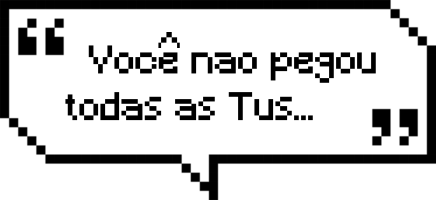
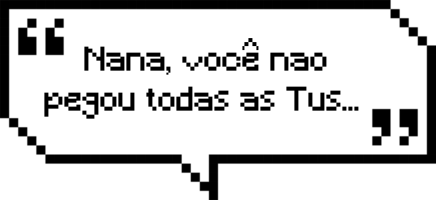
Add win dialog near Olaf

Changed region(s): [[0.0894, 0.42, 0.8349, 0.63], [0.1789, 0.15, 0.8647, 0.42]]

diff --git a/src/game/scenes/Game.js b/src/game/scenes/Game.js
@@ -26,6 +26,7 @@ export class Game extends Scene {
         this.load.image('flag2', 'assets/tiles/flag2.png');
         this.load.image('olaf', 'assets/tiles/Olaf.png');
         this.load.image('dialog', 'assets/tiles/dialog.png');
+        this.load.image('dialog_win', 'assets/tiles/dialog_win.png');
     }
 
     create() {
@@ -204,6 +205,13 @@ export class Game extends Scene {
         this.dialog.setDepth(20);
         this.dialog.y = this.olaf.y - this.olaf.displayHeight - 10;
         this.dialog.setVisible(false);
+
+        this.dialogWin = this.add.image(olafX - 20, olafY, 'dialog_win');
+        this.dialogWin.setOrigin(0.5, 1);
+        this.dialogWin.setScale(0.4);
+        this.dialogWin.setDepth(21);
+        this.dialogWin.y = this.olaf.y - this.olaf.displayHeight - 10;
+        this.dialogWin.setVisible(false);
     }
 
     createFlagAnimation() {
@@ -228,6 +236,12 @@ export class Game extends Scene {
         }
 
         this.isWin = true;
+        if (this.dialog) {
+            this.dialog.setVisible(false);
+        }
+        if (this.dialogWin) {
+            this.dialogWin.setVisible(true);
+        }
         if (this.bgm?.isPlaying) {
             this.bgm.stop();
         }
@@ -343,7 +357,7 @@ export class Game extends Scene {
     }
 
     updateFlagProximity() {
-        if (!this.dialog || !this.player || !this.goalFlag) return;
+        if (this.isWin || !this.dialog || !this.player || !this.goalFlag) return;
         const isAtFlag = this.physics.overlap(this.player, this.goalFlag);
         this.dialog.setVisible(isAtFlag);
     }
